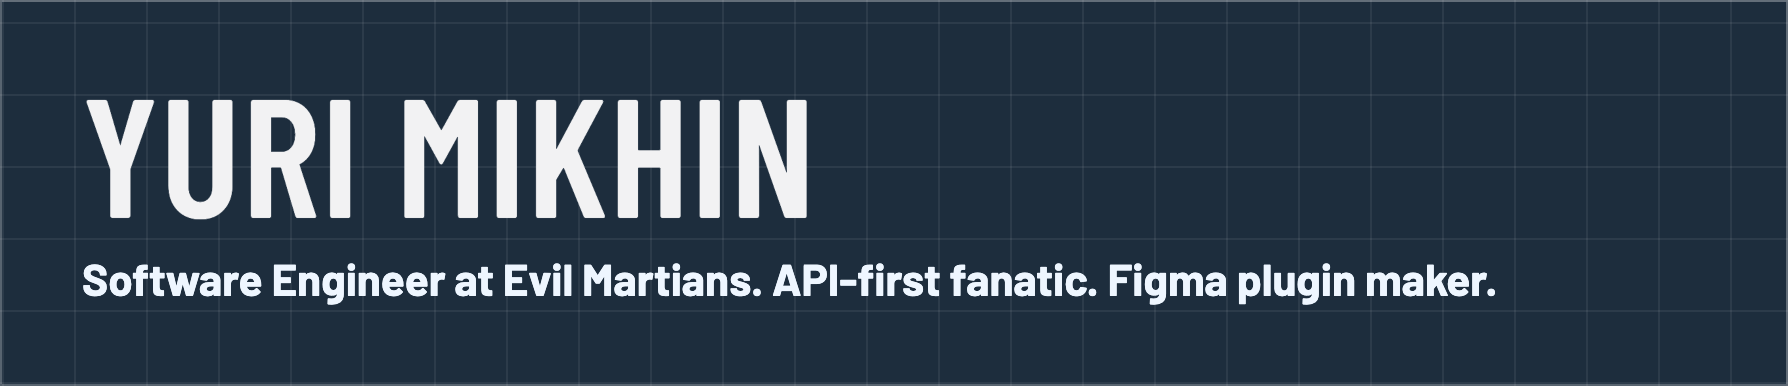
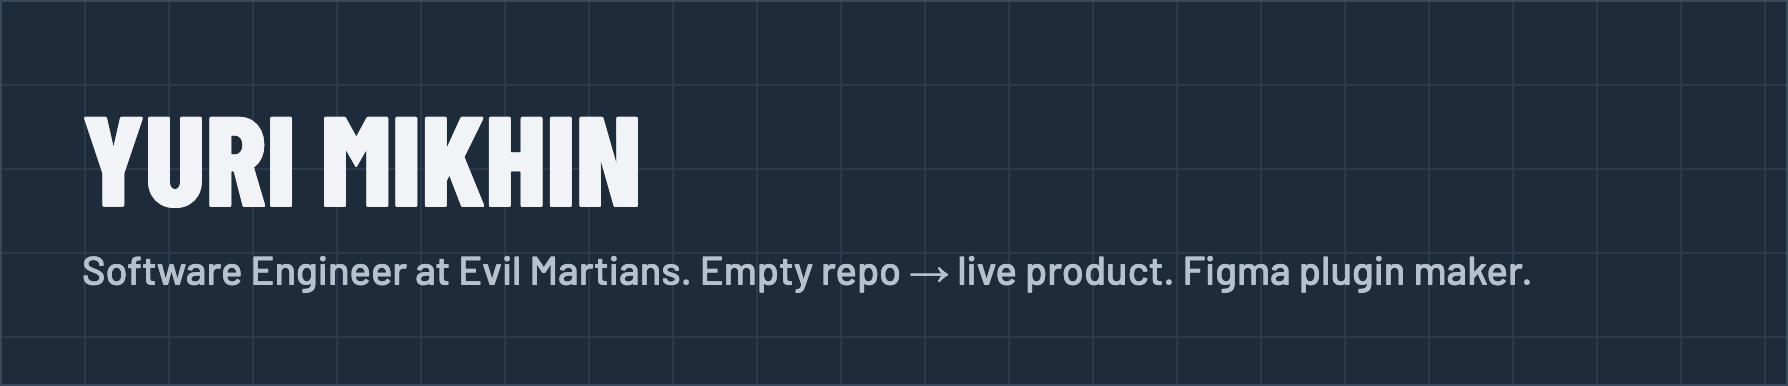
Bring the profile in line with the Evil Martians portfolio
Client work section (Miru, Blockscout, Synonym) with outcomes, AgentPrism
numbers, 20K+ users in the plugins heading, bio and links under the hero,
articles moved last and trimmed to seven. Every tile now has a dark variant.

diff --git a/README.md b/README.md
@@ -1,7 +1,32 @@
 <picture>
   <source media="(prefers-color-scheme: dark)" srcset="assets/hero-dark.png">
-  <img src="assets/hero-light.png" alt="Yuri Mikhin — Software Engineer at Evil Martians. API-first fanatic. Figma plugin maker." width="100%">
+  <img src="assets/hero-light.png" alt="Yuri Mikhin — Software Engineer at Evil Martians. Empty repo → live product. Figma plugin maker." width="100%">
 </picture>
+
+Lately my job looks less like frontend engineering and more like being someone's CTO. A founder shows up with an idea and an empty repository, and I turn it into a live product: I choose the stack, design the architecture, define the scope, plan the releases, and write the code.
+
+[Evil Martians profile](https://evilmartians.com/martians/yuri-mikhin) · [Figma Community](https://figma.com/@yurimikhin) · [X](https://x.com/yurimikhin)
+
+## Client work
+
+<a href="https://evilmartians.com/clients/miru-labs"><picture><source media="(prefers-color-scheme: dark)" srcset="assets/client-miru-dark.png"><img src="assets/client-miru-light.png" alt="Miru — admin console and security-log platform for an AI-native threat prevention startup. First MVP in 4 months, second in 6, $2.7M raised after launch" width="100%"></picture></a>
+<a href="https://evilmartians.com/clients/blockscout"><picture><source media="(prefers-color-scheme: dark)" srcset="assets/client-blockscout-dark.png"><img src="assets/client-blockscout-light.png" alt="Blockscout — dApp marketplace and stats dashboard, end-to-end, for an explorer serving 100+ networks" width="49.7%"></picture></a>
+<a href="https://evilmartians.com/clients/synonym"><picture><source media="(prefers-color-scheme: dark)" srcset="assets/client-synonym-dark.png"><img src="assets/client-synonym-light.png" alt="Synonym — investment platform and Capacitor open database, two products both on time" width="49.7%"></picture></a>
+
+## Figma plugins &amp; widgets — 20K+ users
+
+<a href="https://www.figma.com/community/widget/1351833308415153127/kanban-board-trello-like"><picture><source media="(prefers-color-scheme: dark)" srcset="assets/plugin-kanban-dark.png"><img src="assets/plugin-kanban-light.png" alt="Kanban Board — Trello-like boards inside Figma. 10.9K users" width="49.7%"></picture></a>
+<a href="https://www.figma.com/community/plugin/1542146994098256095/figma-mind-map-importer-exporter-plugin"><picture><source media="(prefers-color-scheme: dark)" srcset="assets/plugin-mindmaps-dark.png"><img src="assets/plugin-mindmaps-light.png" alt="Mind Maps — import and export mind maps. 2.2K users" width="49.7%"></picture></a>
+<a href="https://www.figma.com/community/widget/1655733687866006888/gantt-chart"><picture><source media="(prefers-color-scheme: dark)" srcset="assets/plugin-gantt-dark.png"><img src="assets/plugin-gantt-light.png" alt="Gantt Chart — Gantt charts inside Figma. 2K users" width="49.7%"></picture></a>
+<a href="https://www.figma.com/community/plugin/1563568797363678258/comments-mover-pages-coming-soon"><picture><source media="(prefers-color-scheme: dark)" srcset="assets/plugin-comments-dark.png"><img src="assets/plugin-comments-light.png" alt="Comments Mover — bulk transfer comments between files. 670+ users" width="49.7%"></picture></a>
+<a href="https://www.figma.com/community/plugin/1636745379895311011/percept11y-accessibility-contrast-checker"><picture><source media="(prefers-color-scheme: dark)" srcset="assets/plugin-percept11y-dark.png"><img src="assets/plugin-percept11y-light.png" alt="Percept11y — APCA-based accessibility and contrast checker" width="49.7%"></picture></a>
+<a href="https://www.figma.com/community/widget/1554482530759515936/dynamic-connector-formula"><picture><source media="(prefers-color-scheme: dark)" srcset="assets/plugin-connector-dark.png"><img src="assets/plugin-connector-light.png" alt="Connector Formula — Liquid template language for connectors" width="49.7%"></picture></a>
+
+## Open source
+
+<a href="https://evilmartians.com/opensource/agent-prism"><picture><source media="(prefers-color-scheme: dark)" srcset="assets/oss-agentprism-dark.png"><img src="assets/oss-agentprism-light.png" alt="AgentPrism — agent traces as readable timelines. Main UI panel of elizaOS, in production at Quotient AI. 387 GitHub stars, 6K npm downloads a week" width="100%"></picture></a>
+<a href="https://heyapi.dev/openapi-ts/plugins/nest"><picture><source media="(prefers-color-scheme: dark)" srcset="assets/oss-heyapi-dark.png"><img src="assets/oss-heyapi-light.png" alt="NestJS plugin for Hey API — type-safe controller signatures from OpenAPI" width="49.7%"></picture></a>
+<a href="https://github.com/evilmartians/figma-polychrom"><picture><source media="(prefers-color-scheme: dark)" srcset="assets/oss-polychrom-dark.png"><img src="assets/oss-polychrom-light.png" alt="Polychrom — APCA contrast and font size recommendations" width="49.7%"></picture></a>
 
 ## Featured articles
 
@@ -11,26 +36,4 @@
 <a href="https://evilmartians.com/chronicles/lifes-too-short-to-hand-write-api-types-openapi-driven-react"><img src="https://evilmartians.com/social-cards/chronicles/lifes-too-short-to-hand-write-api-types-openapi-driven-react.jpg" alt="Life's too short to hand-write API types: OpenAPI-driven React" width="49.7%"></a>
 <a href="https://evilmartians.com/chronicles/contract-shock-therapy-the-way-to-api-first-documentation-bliss"><img src="https://evilmartians.com/social-cards/chronicles/contract-shock-therapy-the-way-to-api-first-documentation-bliss.jpg" alt="Contract shock therapy: the way to API-first documentation bliss" width="49.7%"></a>
 <a href="https://evilmartians.com/chronicles/api-contracts-and-everything-i-wish-i-knew-a-frontend-survival-guide"><img src="https://evilmartians.com/social-cards/chronicles/api-contracts-and-everything-i-wish-i-knew-a-frontend-survival-guide.jpg" alt="API contracts and everything I wish I knew: a frontend survival guide" width="49.7%"></a>
-<a href="https://evilmartians.com/chronicles/the-lions-den-nest-js-and-authentication-with-aws-cognito"><img src="https://evilmartians.com/social-cards/chronicles/the-lions-den-nest-js-and-authentication-with-aws-cognito.jpg" alt="The lion's den: NestJS and authentication with AWS Cognito" width="49.7%"></a>
-<a href="https://evilmartians.com/chronicles/how-to-manifest-streamlined-authentication-aws-cognito-in-a-react-app"><img src="https://evilmartians.com/social-cards/chronicles/how-to-manifest-streamlined-authentication-aws-cognito-in-a-react-app.jpg" alt="How to manifest streamlined authentication: AWS Cognito in a React app" width="49.7%"></a>
 <a href="https://evilmartians.com/chronicles/figma-plugin-api-dive-into-advanced-algorithms-and-data-structures"><img src="https://evilmartians.com/social-cards/chronicles/figma-plugin-api-dive-into-advanced-algorithms-and-data-structures.jpg" alt="Figma plugin API: diving into advanced algorithms &amp; data structures" width="49.7%"></a>
-<a href="https://evilmartians.com/chronicles/figma-plugin-magic-tricks-mixing-colors-with-svg-and-canvas-api"><img src="https://evilmartians.com/social-cards/chronicles/figma-plugin-magic-tricks-mixing-colors-with-svg-and-canvas-api.jpg" alt="Figma plugin magic tricks: mixing colors with SVG and Canvas API" width="49.7%"></a>
-<a href="https://evilmartians.com/chronicles/dont-wait-lets-use-browser-contact-picker-api-now"><img src="https://evilmartians.com/social-cards/chronicles/dont-wait-lets-use-browser-contact-picker-api-now.jpg" alt="Don't wait, let's use the browser Contact Picker API now" width="49.7%"></a>
-
-## Figma plugins &amp; widgets
-
-<a href="https://www.figma.com/community/widget/1351833308415153127/kanban-board-trello-like"><img src="assets/plugin-kanban.png" alt="Kanban Board — Trello-like boards inside Figma. 10.9K users" width="49.7%"></a>
-<a href="https://www.figma.com/community/plugin/1542146994098256095/figma-mind-map-importer-exporter-plugin"><img src="assets/plugin-mindmaps.png" alt="Mind Maps — import &amp; export mind maps. 2.2K users" width="49.7%"></a>
-<a href="https://www.figma.com/community/widget/1655733687866006888/gantt-chart"><img src="assets/plugin-gantt.png" alt="Gantt Chart — Gantt charts inside Figma. 2K users" width="49.7%"></a>
-<a href="https://www.figma.com/community/plugin/1563568797363678258/comments-mover-pages-coming-soon"><img src="assets/plugin-comments.png" alt="Comments Mover — bulk transfer comments between files. 670+ users" width="49.7%"></a>
-<a href="https://www.figma.com/community/plugin/1636745379895311011/percept11y-accessibility-contrast-checker"><img src="assets/plugin-percept11y.png" alt="Percept11y — APCA-based accessibility &amp; contrast checker" width="49.7%"></a>
-<a href="https://www.figma.com/community/widget/1554482530759515936/dynamic-connector-formula"><img src="assets/plugin-connector.png" alt="Connector Formula — Liquid template language for connectors" width="49.7%"></a>
-
-## Open source
-
-<a href="https://heyapi.dev/openapi-ts/plugins/nest"><img src="assets/oss-heyapi.png" alt="NestJS plugin for Hey API — OpenAPI plugin generating type-safe controller method signatures for NestJS" width="100%"></a>
-<a href="https://evilmartians.com/opensource/agent-prism"><img src="assets/oss-agentprism.png" alt="Agent Prism — React components for visualizing AI agent traces" width="49.7%"></a>
-<a href="https://github.com/evilmartians/figma-polychrom"><img src="assets/oss-polychrom.png" alt="Polychrom — APCA contrast levels &amp; font size recommendations" width="49.7%"></a>
-<a href="https://github.com/mikhin/nature"><img src="assets/oss-nature.png" alt="nature — spec-first kernel on three primitives: nature / observe / action" width="49.7%"></a>
-<a href="https://github.com/mikhin/figma-widget-vite-react-typescript-template"><img src="assets/oss-widget-template.png" alt="Figma Widget Template — Vite + React + TypeScript widget setup with HMR" width="49.7%"></a>
-<a href="https://github.com/mikhin/contact-picker-api-demo"><img src="assets/oss-contact-picker.png" alt="Contact Picker API — one-off access to user contacts with full control over shared data" width="49.7%"></a>
